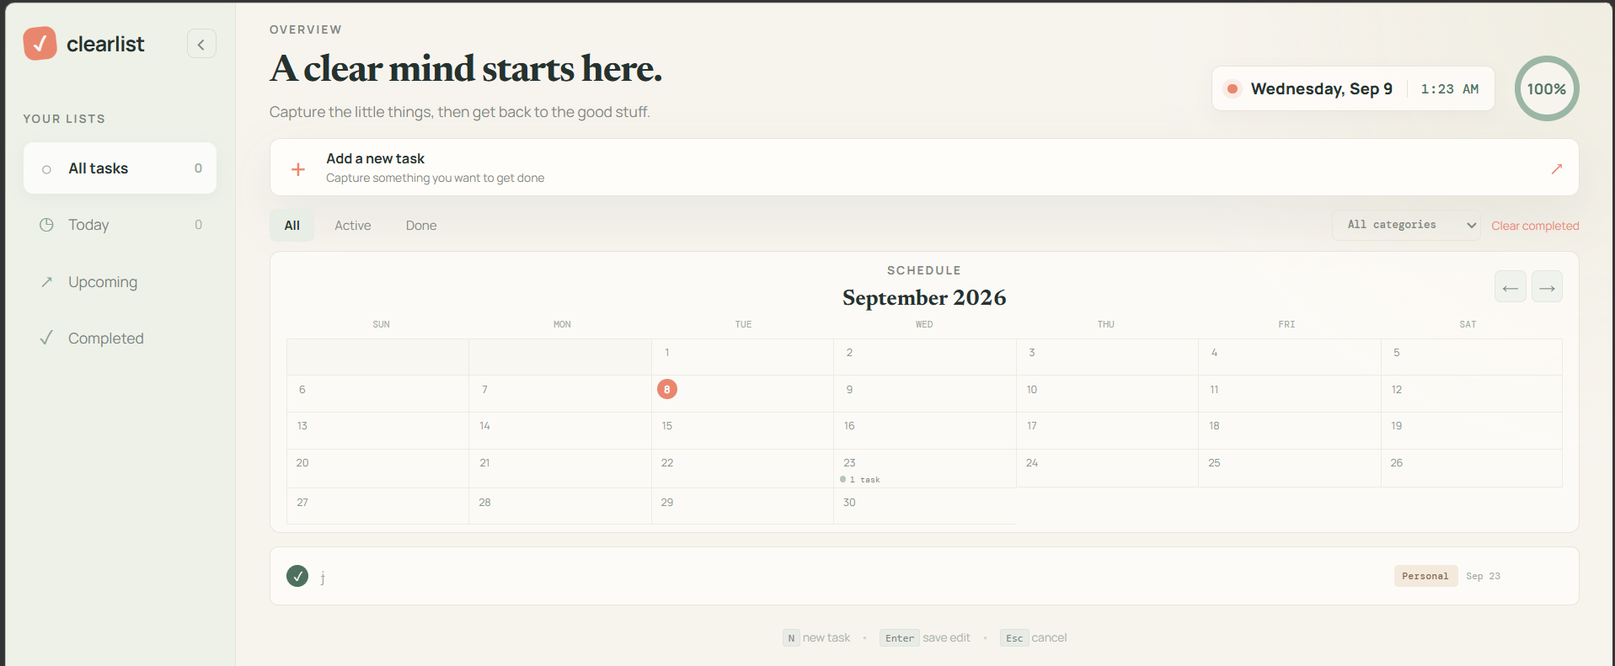
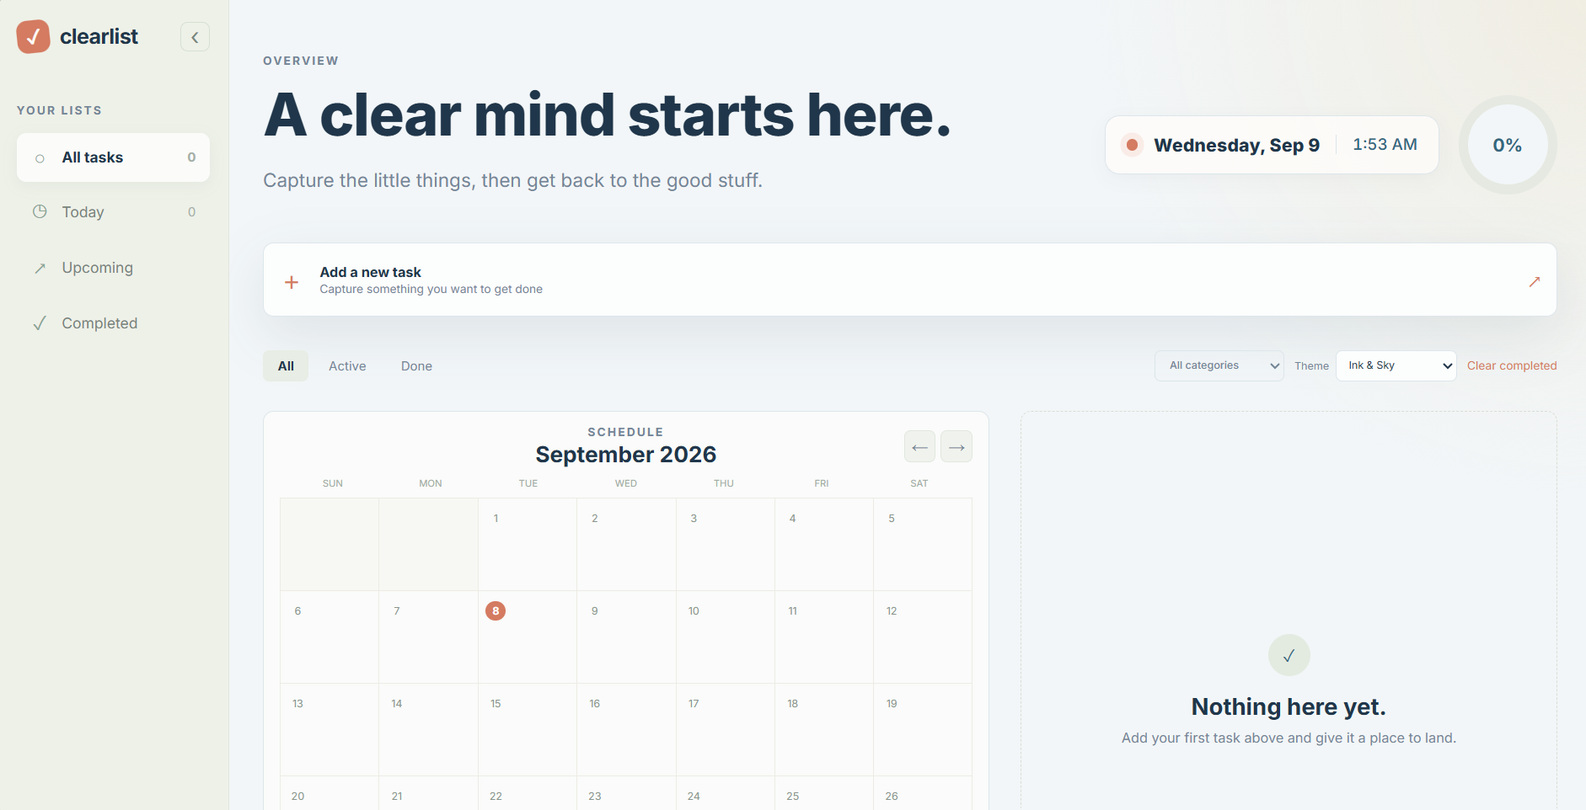
Add theme selection feature and update styles for improved UI

diff --git a/styles.css b/styles.css
@@ -8,11 +8,37 @@
   --sage-dark: #4d715e;
   --coral: #e9876e;
   --shadow: 0 18px 50px rgba(54, 65, 57, 0.08);
+  --font-ui: "Inter", -apple-system, BlinkMacSystemFont, "SF Pro Display", "SF Pro Text", sans-serif;
+  --font-meta: "Inter", -apple-system, BlinkMacSystemFont, "SF Pro Text", sans-serif;
+}
+
+:root[data-theme="sky"] {
+  --ink: #20364a;
+  --muted: #748697;
+  --paper: #f2f6f8;
+  --panel: #fcfdfd;
+  --line: #dce6eb;
+  --sage: #79a9bf;
+  --sage-dark: #35677e;
+  --coral: #d47b61;
+  --shadow: 0 18px 50px rgba(38, 72, 90, 0.1);
+}
+
+:root[data-theme="plum"] {
+  --ink: #382f3d;
+  --muted: #887b89;
+  --paper: #f8f4f2;
+  --panel: #fffdfb;
+  --line: #eadfdc;
+  --sage: #a184a0;
+  --sage-dark: #6b4f69;
+  --coral: #c98a4b;
+  --shadow: 0 18px 50px rgba(74, 51, 63, 0.1);
 }
 
 * { box-sizing: border-box; }
 html { min-height: 100%; }
-body { margin: 0; min-width: 320px; color: var(--ink); background: var(--paper); font-family: "Manrope", sans-serif; overflow-x: hidden; }
+body { margin: 0; min-width: 320px; color: var(--ink); background: var(--paper); font-family: var(--font-ui); overflow-x: hidden; }
 button, input { font: inherit; }
 button { cursor: pointer; }
 .app-shell { display: flex; min-height: 100vh; }
@@ -41,60 +67,66 @@ button { cursor: pointer; }
 .sidebar-footer { margin: 18px 0 0; color: #a0aaa1; font-size: 10px; text-align: center; }
 .main-content { min-width: 0; flex: 1 1 auto; overflow: hidden; background: radial-gradient(circle at 100% 0%, #f0ede2 0, transparent 29%), var(--paper); }
 .topbar { display: flex; align-items: center; justify-content: space-between; max-width: 980px; margin: 0 auto; padding: 30px 7.5% 0; }
-.date-stamp { display: flex; align-items: center; gap: 13px; min-height: 43px; padding: 8px 15px; color: var(--ink); background: rgba(255,253,250,.8); border: 1px solid var(--line); border-radius: 9px; box-shadow: 0 5px 16px rgba(50,50,40,.04); }
-.date-stamp::before { width: 9px; height: 9px; content: ""; background: var(--coral); border-radius: 50%; box-shadow: 0 0 0 5px rgba(233,135,110,.13); }
-.date-stamp strong { font-size: 15px; font-weight: 800; letter-spacing: .15px; }
-.date-stamp span { padding-left: 13px; color: var(--sage-dark); border-left: 1px solid var(--line); font-family: "DM Mono", monospace; font-size: 13px; font-weight: 500; }
+.date-stamp { display: flex; align-items: center; gap: 15px; min-height: 56px; padding: 12px 20px; color: var(--ink); background: rgba(255,253,250,.8); border: 1px solid var(--line); border-radius: 14px; box-shadow: 0 5px 16px rgba(50,50,40,.04); }
+.date-stamp::before { width: 11px; height: 11px; content: ""; background: var(--coral); border-radius: 50%; box-shadow: 0 0 0 6px rgba(233,135,110,.13); }
+.date-stamp strong { font-size: 17px; font-weight: 800; letter-spacing: .15px; }
+.date-stamp span { padding-left: 15px; color: var(--sage-dark); border-left: 1px solid var(--line); font-family: var(--font-meta); font-size: 15px; font-variant-numeric: tabular-nums; font-weight: 500; }
 .icon-button { width: 35px; height: 35px; color: var(--ink); background: var(--panel); border: 1px solid var(--line); border-radius: 50%; font-size: 23px; line-height: 1; box-shadow: 0 5px 16px rgba(50,50,40,.05); }
 .icon-button:hover { color: white; background: var(--coral); border-color: var(--coral); }
-.content-wrap { max-width: 900px; margin: 0 auto; padding: 38px 5% 28px; }
+.content-wrap { max-width: 900px; margin: 0 auto; padding: 56px 5% 44px; }
 .page-heading { display: flex; align-items: flex-end; justify-content: space-between; gap: 20px; }
 .heading-status { display: flex; align-items: center; gap: 18px; flex: 0 0 auto; }
-.page-heading h1 { max-width: 640px; margin: 0; color: var(--ink); font-family: "Newsreader", serif; font-size: clamp(30px, 4vw, 44px); letter-spacing: -.9px; line-height: 1.06; }
-.subtitle { margin: 14px 0 0; color: var(--muted); font-size: 14px; }
-.progress-ring { display: grid; flex: 0 0 auto; width: 76px; height: 76px; place-items: center; color: var(--sage-dark); background: conic-gradient(var(--sage) 0deg, var(--sage) 0deg, #e5e9e1 0deg); border-radius: 50%; font-size: 14px; font-weight: 700; position: relative; }
-.progress-ring::after { position: absolute; inset: 7px; content: ""; background: var(--paper); border-radius: 50%; }
+.page-heading h1 { max-width: 700px; margin: 0; color: var(--ink); font-family: var(--font-ui); font-size: clamp(36px, 4.8vw, 56px); font-weight: 800; letter-spacing: -1px; line-height: 1.06; }
+.subtitle { margin: 20px 0 0; color: var(--muted); font-size: 18px; line-height: 1.45; }
+.progress-ring { display: grid; flex: 0 0 auto; width: 94px; height: 94px; place-items: center; color: var(--sage-dark); background: conic-gradient(var(--sage) 0deg, var(--sage) 0deg, #e5e9e1 0deg); border-radius: 50%; font-size: 17px; font-weight: 700; position: relative; }
+.progress-ring::after { position: absolute; inset: 9px; content: ""; background: var(--paper); border-radius: 50%; }
 .progress-ring span { position: relative; z-index: 1; }
 .task-composer { display: flex; align-items: center; gap: 12px; margin-top: 48px; padding: 8px 8px 8px 20px; background: var(--panel); border: 1px solid var(--line); border-radius: 13px; box-shadow: var(--shadow); }
 .composer-plus { color: var(--coral); font-size: 25px; }
 .task-composer input { min-width: 0; flex: 1; color: var(--ink); background: transparent; border: 0; outline: 0; font-size: 14px; }
-.task-composer select, .category-filter { padding: 9px 26px 9px 10px; color: var(--sage-dark); background: #f0f4ed; border: 1px solid #dfe8dd; border-radius: 6px; outline-color: var(--sage-dark); font-family: "DM Mono", monospace; font-size: 10px; font-weight: 500; }
-.task-composer input[type="date"] { flex: 0 0 auto; min-width: 128px; padding: 9px 7px; color: var(--sage-dark); background: #f0f4ed; border: 1px solid #dfe8dd; border-radius: 6px; outline-color: var(--sage-dark); font-family: "DM Mono", monospace; font-size: 10px; }
+.task-composer select, .category-filter { padding: 9px 26px 9px 10px; color: var(--sage-dark); background: #f0f4ed; border: 1px solid #dfe8dd; border-radius: 6px; outline-color: var(--sage-dark); font-family: var(--font-meta); font-size: 10px; font-variant-numeric: tabular-nums; font-weight: 500; }
+.task-composer input[type="date"] { flex: 0 0 auto; min-width: 128px; padding: 9px 7px; color: var(--sage-dark); background: #f0f4ed; border: 1px solid #dfe8dd; border-radius: 6px; outline-color: var(--sage-dark); font-family: var(--font-meta); font-size: 10px; font-variant-numeric: tabular-nums; }
 .task-composer input::placeholder { color: #adb4ac; }
 .button { border: 0; border-radius: 8px; font-weight: 700; transition: transform .2s, background .2s; }
 .button:hover { transform: translateY(-1px); }
 .button-primary { padding: 12px 16px; color: white; background: var(--ink); font-size: 12px; }
 .button-primary span { margin-left: 8px; color: #9eb7a8; }
-.add-task-trigger { display: flex; align-items: center; gap: 14px; width: 100%; margin-top: 28px; padding: 13px 16px; color: var(--ink); background: var(--panel); border: 1px solid var(--line); border-radius: 10px; box-shadow: var(--shadow); text-align: left; transition: border-color .2s, transform .2s; }
+.add-task-trigger { display: flex; align-items: center; gap: 14px; width: 100%; margin-top: 46px; padding: 18px 20px; color: var(--ink); background: var(--panel); border: 1px solid var(--line); border-radius: 10px; box-shadow: var(--shadow); text-align: left; transition: border-color .2s, transform .2s; }
 .add-task-trigger:hover { border-color: #b9ceb9; transform: translateY(-1px); }
 .add-task-trigger strong, .add-task-trigger small { display: block; }
 .add-task-trigger strong { font-size: 13px; }
 .add-task-trigger small { margin-top: 3px; color: var(--muted); font-size: 11px; }
 .trigger-arrow { margin-left: auto; color: var(--coral); font-size: 19px; }
-.toolbar { display: flex; align-items: center; flex-wrap: wrap; gap: 10px; margin: 22px 0 13px; }
+.toolbar { display: flex; align-items: center; flex-wrap: wrap; gap: 10px; margin: 32px 0 22px; }
 .filter-tabs { display: flex; gap: 5px; }
 .filter-tab { padding: 7px 14px; color: var(--muted); background: transparent; border: 0; border-radius: 6px; font-size: 12px; }
 .filter-tab:hover, .filter-tab.is-active { color: var(--ink); background: #e8ede5; font-weight: 700; }
 .clear-button { padding: 7px 0; color: var(--coral); background: transparent; border: 0; font-size: 11px; }
 .category-filter { margin-left: auto; padding-top: 7px; padding-bottom: 7px; background: transparent; border-color: var(--line); color: var(--muted); }
-.calendar-panel { margin-bottom: 20px; padding: 15px 15px 14px; background: rgba(255,253,250,.65); border: 1px solid var(--line); border-radius: 10px; }
+.theme-picker { display: flex; align-items: center; gap: 6px; color: var(--muted); font-family: var(--font-meta); font-size: 10px; font-variant-numeric: tabular-nums; }
+.theme-picker select { padding: 7px 24px 7px 8px; color: var(--ink); background: var(--panel); border: 1px solid var(--line); border-radius: 6px; font-family: var(--font-meta); font-size: 10px; }
+.workspace-grid { display: grid; grid-template-columns: minmax(0, 1.15fr) minmax(320px, .85fr); align-items: stretch; gap: 30px; margin-top: 28px; }
+.calendar-panel { min-width: 0; margin-bottom: 20px; padding: 15px 15px 14px; background: rgba(255,253,250,.65); border: 1px solid var(--line); border-radius: 10px; }
 .calendar-panel[hidden] { display: none; }
+.workspace-grid .calendar-panel, .workspace-grid .task-section { height: 100%; }
+.workspace-grid .calendar-panel { margin-bottom: 0; }
+.workspace-grid .task-section { min-width: 0; }
 .calendar-heading { display: flex; align-items: center; justify-content: flex-end; min-height: 48px; margin-bottom: 28px; position: relative; }
 .calendar-heading > div:first-child { display: flex; flex-direction: column; align-items: center; position: absolute; left: 50%; transform: translateX(-50%); }
-.calendar-heading .eyebrow { margin-bottom: 10px; }
-.calendar-heading h2 { margin: 0; color: var(--ink); font-family: "Newsreader", serif; font-size: 25px; }
+.calendar-heading .eyebrow { margin-bottom: 2px; }
+.calendar-heading h2 { margin: 0; color: var(--ink); font-family: var(--font-ui); font-size: 25px; font-weight: 700; }
 .calendar-controls { display: flex; gap: 5px; }
 .calendar-button { display: grid; width: 30px; height: 30px; place-items: center; color: var(--muted); background: #f0f3ed; border: 1px solid #e1e7df; border-radius: 6px; }
 .calendar-button:hover { color: white; background: var(--sage-dark); border-color: var(--sage-dark); }
 .calendar-weekdays, .calendar-grid { display: grid; grid-template-columns: repeat(7, minmax(0, 1fr)); }
-.calendar-weekdays { padding: 0 4px 8px; color: #a1aaa2; font-family: "DM Mono", monospace; font-size: 9px; text-align: center; text-transform: uppercase; }
-.calendar-day { min-height: 57px; padding: 5px; border-top: 1px solid #eeebe4; border-left: 1px solid #eeebe4; overflow: hidden; }
+.calendar-weekdays { padding: 0 4px 8px; color: #a1aaa2; font-family: var(--font-meta); font-size: 9px; font-variant-numeric: tabular-nums; text-align: center; text-transform: uppercase; }
+.calendar-day { min-height: 88px; padding: 9px 7px; border-top: 1px solid #eeebe4; border-left: 1px solid #eeebe4; overflow: hidden; }
 .calendar-day:nth-child(7n) { border-right: 1px solid #eeebe4; }
 .calendar-day:nth-last-child(-n + 7) { border-bottom: 1px solid #eeebe4; }
 .calendar-day.is-blank { background: rgba(245,243,237,.45); }
 .calendar-number { display: grid; width: 23px; height: 23px; place-items: center; margin-bottom: 7px; color: #89948c; border-radius: 50%; font-size: 11px; }
 .calendar-day.is-today .calendar-number { color: white; background: var(--coral); font-weight: 700; }
-.calendar-summary { display: flex; align-items: center; gap: 4px; color: var(--muted); font-family: "DM Mono", monospace; font-size: 8px; white-space: nowrap; }
+.calendar-summary { display: flex; align-items: center; gap: 4px; color: var(--muted); font-family: var(--font-meta); font-size: 8px; font-variant-numeric: tabular-nums; white-space: nowrap; }
 .calendar-dots { display: flex; gap: 2px; }
 .calendar-task { display: block; width: 6px; height: 6px; background: var(--coral); border-radius: 50%; }
 .calendar-task.is-complete { background: #b8c5ba; }
@@ -106,9 +138,9 @@ button { cursor: pointer; }
 .task-check:hover { border-color: var(--sage-dark); }
 .task-item.is-complete .task-check { color: white; background: var(--sage-dark); border-color: var(--sage-dark); }
 .task-copy { min-width: 0; flex: 1; color: #43534b; font-size: 14px; overflow-wrap: anywhere; }
-.category-pill { flex: 0 0 auto; padding: 5px 8px; border-radius: 4px; font-family: "DM Mono", monospace; font-size: 9px; font-weight: 500; letter-spacing: .2px; }
+.category-pill { flex: 0 0 auto; padding: 5px 8px; border-radius: 4px; font-family: var(--font-meta); font-size: 9px; font-variant-numeric: tabular-nums; font-weight: 500; letter-spacing: .2px; }
 .task-meta { display: flex; align-items: center; gap: 8px; flex: 0 0 auto; }
-.due-date { color: #a2aaa3; font-family: "DM Mono", monospace; font-size: 9px; }
+.due-date { color: #a2aaa3; font-family: var(--font-meta); font-size: 9px; font-variant-numeric: tabular-nums; }
 .category-personal { color: #80654d; background: #f3e9dd; }
 .category-work { color: #566a82; background: #e4ebf3; }
 .category-health { color: #5d7a61; background: #e3eee3; }
@@ -119,23 +151,23 @@ button { cursor: pointer; }
 .task-item:hover .task-actions, .task-actions:focus-within { opacity: 1; }
 .task-action { padding: 6px; color: #98a29a; background: transparent; border: 0; font-size: 13px; }
 .task-action:hover { color: var(--coral); }
-.empty-state { padding: 57px 20px; color: var(--muted); text-align: center; border: 1px dashed #d8ded4; border-radius: 10px; }
+.empty-state { display: grid; height: 100%; min-height: 100%; align-content: center; padding: 80px 20px; color: var(--muted); text-align: center; border: 1px dashed #d8ded4; border-radius: 10px; }
 .empty-check { display: grid; width: 40px; height: 40px; margin: 0 auto 15px; place-items: center; color: var(--sage-dark); background: #e3ebe1; border-radius: 50%; }
-.empty-state h2 { margin: 0; color: var(--ink); font-family: "Newsreader", serif; font-size: 22px; }
+.empty-state h2 { margin: 0; color: var(--ink); font-family: var(--font-ui); font-size: 22px; font-weight: 700; }
 .empty-state p { margin: 8px 0 0; font-size: 13px; }
 .modal-backdrop { position: fixed; inset: 0; z-index: 10; display: grid; place-items: center; padding: 20px; background: rgba(37,50,47,.28); backdrop-filter: blur(5px); }
 .modal-backdrop[hidden] { display: none; }
 .task-modal { width: min(100%, 510px); padding: 30px; background: var(--panel); border: 1px solid rgba(255,255,255,.7); border-radius: 16px; box-shadow: 0 30px 80px rgba(37,50,47,.2); animation: modal-rise .2s ease both; }
 .modal-heading { display: flex; align-items: flex-start; justify-content: space-between; margin-bottom: 28px; }
 .modal-heading .eyebrow { margin-bottom: 9px; }
-.modal-heading h2 { margin: 0; font-family: "Newsreader", serif; font-size: 32px; }
+.modal-heading h2 { margin: 0; font-family: var(--font-ui); font-size: 32px; font-weight: 700; }
 .modal-close { width: 31px; height: 31px; color: var(--muted); background: #f0f3ed; border: 0; border-radius: 50%; font-size: 21px; line-height: 1; }
 .modal-close:hover { color: white; background: var(--coral); }
-.field-label { display: block; margin-bottom: 8px; color: var(--muted); font-family: "DM Mono", monospace; font-size: 10px; text-transform: uppercase; }
+.field-label { display: block; margin-bottom: 8px; color: var(--muted); font-family: var(--font-meta); font-size: 10px; font-variant-numeric: tabular-nums; text-transform: uppercase; }
 .modal-task-input { width: 100%; padding: 14px 0; color: var(--ink); background: transparent; border: 0; border-bottom: 1px solid var(--line); outline: 0; font-size: 16px; }
 .modal-task-input:focus { border-color: var(--sage-dark); }
 .modal-fields { display: grid; grid-template-columns: 1fr 1fr; gap: 12px; margin-top: 24px; }
-.modal-fields select, .modal-fields input { width: 100%; padding: 11px 10px; color: var(--ink); background: #f0f4ed; border: 1px solid #dfe8dd; border-radius: 6px; outline-color: var(--sage-dark); font-family: "DM Mono", monospace; font-size: 11px; }
+.modal-fields select, .modal-fields input { width: 100%; padding: 11px 10px; color: var(--ink); background: #f0f4ed; border: 1px solid #dfe8dd; border-radius: 6px; outline-color: var(--sage-dark); font-family: var(--font-meta); font-size: 11px; font-variant-numeric: tabular-nums; }
 .modal-actions { display: flex; justify-content: flex-end; gap: 10px; margin-top: 30px; }
 .button-secondary { padding: 12px 16px; color: var(--muted); background: transparent; font-size: 12px; }
 .button-secondary:hover { color: var(--ink); background: #eef1e8; }
@@ -147,4 +179,16 @@ kbd { padding: 2px 5px; color: #7b877e; background: #e9ece6; border: 1px solid #
 @keyframes modal-rise { from { opacity: 0; transform: translateY(8px) scale(.98); } to { opacity: 1; transform: translateY(0) scale(1); } }
 @media (min-width: 1200px) { .topbar { width: min(1300px, calc(100% - 64px)); padding-right: 0; padding-left: 0; } .content-wrap { width: min(1300px, calc(100% - 64px)); max-width: none; padding-right: 0; padding-left: 0; } }
 @media (min-width: 721px) and (max-height: 850px) { .content-wrap { padding-top: 18px; } .topbar { padding-top: 12px; } .page-heading h1 { font-size: 36px; } .subtitle { margin-top: 8px; } .progress-ring { width: 62px; height: 62px; } .progress-ring::after { inset: 6px; } .add-task-trigger { margin-top: 16px; padding: 10px 14px; } .add-task-trigger small { margin-top: 1px; } .toolbar { margin-top: 12px; margin-bottom: 9px; } .calendar-day { min-height: 35px; padding: 3px 5px; } .calendar-panel { padding-top: 9px; padding-bottom: 7px; margin-bottom: 13px; } .calendar-heading { margin-bottom: 6px; } .calendar-heading h2 { font-size: 21px; } .calendar-number { width: 19px; height: 19px; margin-bottom: 1px; font-size: 10px; } .calendar-task { margin: 1px 0; padding: 1px 3px; font-size: 8px; } .calendar-more { margin-top: 1px; } }
+.workspace-grid { grid-template-columns: minmax(0, 1.15fr) minmax(280px, .85fr); }
 @media (max-width: 720px) { .app-shell { flex-direction: column; } .sidebar { flex-basis: auto; display: block; padding: 14px 14px 9px; border-right: 0; border-bottom: 1px solid #e1e5dc; } .sidebar.is-collapsed { flex-basis: auto; width: auto; padding: 14px 14px 9px; } .sidebar.is-collapsed .brand > span:last-child { display: inline; } .sidebar.is-collapsed .sidebar-section { display: block; } .sidebar.is-collapsed .sidebar-note, .sidebar.is-collapsed .sidebar-footer { display: none; } .sidebar.is-collapsed .sidebar-toggle { position: static; } .sidebar-section { margin-top: 14px; } .nav-list { display: flex; gap: 3px; overflow-x: auto; } .nav-list a { flex: 0 0 auto; padding: 7px 8px; font-size: 12px; } .nav-count, .sidebar-note, .sidebar-footer { display: none; } .topbar { padding: 12px 14px 0; } .content-wrap { padding: 28px 14px 24px; } .page-heading { flex-direction: column; align-items: flex-start; } .page-heading h1 { font-size: 32px; } .heading-status { align-self: flex-start; gap: 8px; } .date-stamp { min-height: 34px; gap: 8px; padding: 6px 10px; } .date-stamp::before { width: 7px; height: 7px; } .date-stamp strong { font-size: 12px; } .date-stamp span { padding-left: 8px; font-size: 11px; } .progress-ring { width: 60px; height: 60px; font-size: 12px; } .progress-ring::after { inset: 6px; } .add-task-trigger { margin-top: 24px; padding: 11px 13px; } .toolbar { display: grid; grid-template-columns: 1fr auto; gap: 7px; margin-top: 16px; } .filter-tabs { grid-column: 1 / -1; } .category-filter { grid-column: 1; margin-left: 0; width: 100%; } .clear-button { grid-column: 2; align-self: center; } .calendar-panel { padding: 12px 7px 8px; margin-bottom: 14px; overflow: hidden; } .calendar-heading { margin-bottom: 8px; } .calendar-heading h2 { font-size: 21px; } .calendar-day { min-height: 42px; padding: 3px; } .calendar-number { width: 19px; height: 19px; margin-bottom: 1px; font-size: 10px; } .calendar-task { margin: 1px 0; } .calendar-summary { font-size: 7px; } .calendar-weekdays { font-size: 7px; } .button-primary { padding: 12px 10px; } .button-primary span { display: none; } .task-actions { opacity: 1; } .keyboard-hint { display: none; } .task-modal { padding: 24px 20px; } }
+@media (max-width: 720px) { .workspace-grid { grid-template-columns: 1fr; } }
+@media (min-width: 721px) {
+  .content-wrap { padding-top: 56px; }
+  .page-heading h1 { font-size: clamp(36px, 4.8vw, 56px); }
+  .subtitle { margin-top: 20px; font-size: 18px; }
+  .progress-ring { width: 94px; height: 94px; font-size: 17px; }
+  .progress-ring::after { inset: 9px; }
+  .add-task-trigger { margin-top: 46px; padding-top: 18px; padding-bottom: 18px; }
+  .toolbar { margin-top: 32px; margin-bottom: 22px; }
+  .calendar-day { min-height: 88px; padding: 9px 7px; }
+}

diff --git a/index.html b/index.html
@@ -7,7 +7,7 @@
     <title>Clearlist | A calmer way to get things done</title>
     <link rel="preconnect" href="https://fonts.googleapis.com" />
     <link rel="preconnect" href="https://fonts.gstatic.com" crossorigin />
-    <link href="https://fonts.googleapis.com/css2?family=DM+Mono:wght@400;500&family=Manrope:wght@400;500;600;700;800&family=Newsreader:opsz,wght@6..72,600;6..72,700&display=swap" rel="stylesheet" />
+    <link href="https://fonts.googleapis.com/css2?family=Inter:wght@400;500;600;700;800&display=swap" rel="stylesheet" />
     <link rel="stylesheet" href="styles.css" />
     <script src="app.js" defer></script>
   </head>
@@ -72,26 +72,29 @@
               <option value="health">Health</option>
               <option value="learning">Learning</option>
             </select>
+            <label class="theme-picker"><span>Theme</span><select id="theme-picker" aria-label="Choose color theme"><option value="sage">Sage &amp; Coral</option><option value="sky">Ink &amp; Sky</option><option value="plum">Plum &amp; Gold</option></select></label>
             <button class="clear-button" id="clear-completed" type="button">Clear completed</button>
           </div>
 
-          <section class="calendar-panel" id="calendar-panel" aria-label="Task calendar">
-            <div class="calendar-heading">
-              <div><p class="eyebrow">Schedule</p><h2 id="calendar-title"></h2></div>
-              <div class="calendar-controls"><button class="calendar-button" id="previous-month" type="button" aria-label="Previous month">←</button><button class="calendar-button" id="next-month" type="button" aria-label="Next month">→</button></div>
-            </div>
-            <div class="calendar-weekdays" aria-hidden="true"><span>Sun</span><span>Mon</span><span>Tue</span><span>Wed</span><span>Thu</span><span>Fri</span><span>Sat</span></div>
-            <div class="calendar-grid" id="calendar-grid"></div>
-          </section>
+          <div class="workspace-grid">
+            <section class="calendar-panel" id="calendar-panel" aria-label="Task calendar">
+              <div class="calendar-heading">
+                <div><p class="eyebrow">Schedule</p><h2 id="calendar-title"></h2></div>
+                <div class="calendar-controls"><button class="calendar-button" id="previous-month" type="button" aria-label="Previous month">←</button><button class="calendar-button" id="next-month" type="button" aria-label="Next month">→</button></div>
+              </div>
+              <div class="calendar-weekdays" aria-hidden="true"><span>Sun</span><span>Mon</span><span>Tue</span><span>Wed</span><span>Thu</span><span>Fri</span><span>Sat</span></div>
+              <div class="calendar-grid" id="calendar-grid"></div>
+            </section>
 
-          <section class="task-section" aria-live="polite">
-            <div class="task-list" id="task-list"></div>
-            <div class="empty-state" id="empty-state" hidden>
-              <div class="empty-check">✓</div>
-              <h2 id="empty-title">Nothing here yet.</h2>
-              <p id="empty-copy">Add your first task above and give it a place to land.</p>
-            </div>
-          </section>
+            <section class="task-section" aria-live="polite">
+              <div class="task-list" id="task-list"></div>
+              <div class="empty-state" id="empty-state" hidden>
+                <div class="empty-check">✓</div>
+                <h2 id="empty-title">Nothing here yet.</h2>
+                <p id="empty-copy">Add your first task above and give it a place to land.</p>
+              </div>
+            </section>
+          </div>
           <p class="keyboard-hint"><kbd>N</kbd> new task <span>•</span> <kbd>Enter</kbd> save edit <span>•</span> <kbd>Esc</kbd> cancel</p>
         </section>
       </main>

diff --git a/app.js b/app.js
@@ -1,4 +1,5 @@
 const STORAGE_KEY = "clearlist.tasks";
+const THEME_KEY = "clearlist.theme";
 const API_URL = window.location.protocol === "http:" || window.location.protocol === "https:" ? "/api/tasks" : null;
 
 const state = {
@@ -8,6 +9,7 @@ const state = {
   category: "all",
   calendarDate: new Date(),
   editingTaskId: null,
+  theme: localStorage.getItem(THEME_KEY) || "sage",
 };
 
 const elements = {
@@ -32,7 +34,16 @@ const elements = {
   calendarGrid: document.querySelector("#calendar-grid"),
   taskModal: document.querySelector("#task-modal"),
   sidebar: document.querySelector(".sidebar"),
+  themePicker: document.querySelector("#theme-picker"),
 };
+
+function applyTheme(theme) {
+  const availableThemes = ["sage", "sky", "plum"];
+  state.theme = availableThemes.includes(theme) ? theme : "sage";
+  document.documentElement.dataset.theme = state.theme;
+  elements.themePicker.value = state.theme;
+  localStorage.setItem(THEME_KEY, state.theme);
+}
 
 function loadTasks() {
   try {
@@ -266,6 +277,8 @@ document.querySelector("#category-filter").addEventListener("change", (event) =>
   renderTasks();
 });
 
+elements.themePicker.addEventListener("change", (event) => applyTheme(event.target.value));
+
 document.querySelector("#clear-completed").addEventListener("click", () => {
   state.tasks = state.tasks.filter((task) => !task.completed);
   saveTasks();
@@ -308,6 +321,7 @@ document.addEventListener("keydown", (event) => {
   if (event.key === "Escape" && !elements.taskModal.hidden) closeTaskModal();
 });
 
+applyTheme(state.theme);
 render();
 elements.dateInput.value = new Date().toISOString().slice(0, 10);
 syncTasksFromApi();
